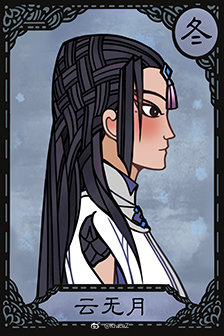
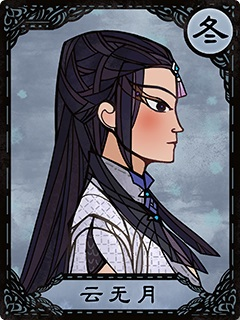
gj3 cards and combos added

diff --git a/spmanager.js b/spmanager.js
@@ -1,7 +1,7 @@
 SPECIAL_CHAR_LIST = [
   ["blts1b", "fqx1a", "hy1a", "ly1a", "oysg1a", "qy1a","xl1a", "yqs1a", "fls1a", "xf1a", "blts1a", "fqx1b", "fls1b", "xl1b", "hy1b", "yqs1b"],
   ["hy2a", "qhzr2a", "sx2a", "sy2a", "wry2b", "xy2a", "xyz2a", "xyz2b", "ywy2a", "ywy2b", "yq2a", "wry2a", "ar2b", "ar2a"],
-  []
+  ["bl3a", "bl3b","ywy3a", "ywy3b", "cy3a", "cy3b", "jxy3b", "jxy3a", "jy3a", "wz3a", "sw3a", "xgns3a", "lz3a", "lx3a"]
 ];
 
 
@@ -21,6 +21,92 @@ class SPManager{
   createSpecial(id) {
     var char, trick;
     switch (id) {
+      case "lx3a":
+          char = new SpecialCharacter("lx3a", "刘兄", "比木", 4, "春", "寒渊梦远几时真，\n但将笔砚换君钗。");
+          trick = new ComboTrick("玳之梦", 30);
+          char.addTrick(trick);
+          trick = new DealTrick("若巫之国在公共卡池中，\n则下一回合一定出现巫之国", ["巫之国"], true);
+          char.addTrick(trick);
+      break;
+      case "lz3a":
+          char = new SpecialCharacter("lz3a", "嫘祖", "梦中人", 4, "夏", "昔年共饮一枝春，\n今朝唯余梦中人。");
+          trick = new SwapTrick();
+          char.addTrick(trick);
+          char.setNoswap();
+      break;
+      case "xgns3a":
+          char = new SpecialCharacter("xgns3a", "玄戈&霓商", "流光", 4, "冬", "朔风凛凛掠尘去，\n故人凭栏晓天寒。");
+          trick = new SwapTrick();
+          char.addTrick(trick);
+          char.setNoswap();
+      break;
+      case "sw3a":
+          char = new SpecialCharacter("sw3a", "司危", "嫣然", 4, "秋", "垂髻粉腮犹带笑，\n不见城深春易老。");
+          trick = new DealTrick("下一回合一定出现一个西陵角色", ["巫炤", "司危", "嫘祖"], true);
+          char.addTrick(trick);
+          trick = new UnnamedBanTrick("《古剑奇谭三》", ["巫炤", "司危", "嫘祖", "北洛", "云无月", "岑婴", "姬轩辕", "刘兄", "玄戈&霓商"]);
+          char.addTrick(trick);
+      break;
+      case "wz3a":
+          char = new SpecialCharacter("wz3a", "巫炤", "吞恨", 4, "冬", "寒灯一芯尽，\n角楼囚霜星，\n独站群崖底，\n风物皆无情。");
+          trick = new ComboTrick("西陵曲", 30);
+          char.addTrick(trick);
+          trick = new UnnamedBanTrick();
+          char.addTrick(trick);
+      break;
+      case "jy3a":
+          char = new SpecialCharacter("jy3a", "缙云", "卸甲", 4, "秋", "玄甲浸苍烟，\n皓首远人间，\n十载常独坐，\n半身是离绝。");
+          trick = new ComboTrick("以玉为戈", 30);
+          char.addTrick(trick);
+          trick = new RevealTrick(1);
+          char.addTrick(trick);
+      break;
+      case "jxy3a":
+          char = new SpecialCharacter("jxy3a", "姬轩辕", "绣春", 4, "春", "乾坤承转昔年事，\n余音茫茫赠熏风。");
+          trick = new CopyTrick();
+          char.addTrick(trick);
+      break;
+      case "jxy3b":
+          char = new SpecialCharacter("jxy3b", "姬轩辕", "玄鹿", 6, "春", "天意多无据，\n人间寄多情，\n华岁逢故交，\n崆峒惜旦暮。");
+          trick = new DealTrick("下一回合一定出现一个《古剑奇谭三》的主要角色", ["北洛", "云无月", "岑婴", "姬轩辕"], true);
+          char.addTrick(trick);
+          trick = new ComboTrick("眠霜卧雪", 30);
+          char.addTrick(trick);
+      break;
+      case "cy3b":
+          char = new SpecialCharacter("cy3b", "岑缨", "菡萏", 6, "夏", "彤霞染层静，\n云渊展鸿图，\n少年相谈笑，\n辩发垂肩行。");
+          trick = new DealTrick("下一回合一定出现一个《古剑奇谭三》的主要角色", ["北洛", "云无月", "岑婴", "姬轩辕"], true);
+          char.addTrick(trick);
+          trick = new RevealTrick(2);
+          char.addTrick(trick);
+      break;
+      case "cy3a":
+          char = new SpecialCharacter("cy3a", "岑缨", "劲装", 4, "夏", "江天绘幅远无垠，\n一页春秋一叶舟。");
+          trick = new ComboTrick("一见喜", 30);
+          char.addTrick(trick);
+      break;
+      case "ywy3b":
+          char = new SpecialCharacter("ywy3b", "云无月", "魇魅", 6, "冬", "华翎一展云蔽月，\n敢以长歌魇鬼神。");
+          trick = new UnnamedBanTrick();
+          char.addTrick(trick);
+          trick = new CharTrick("北洛", 30);
+          char.addTrick(trick);
+      break;
+      case "ywy3a":
+          char = new SpecialCharacter("ywy3a", "云无月", "华裳", 4, "冬", "清眸剪沧海，\n罗袂舞桑田，\n红尘本无意，\n重逢竟有期。");
+          trick = new RevealTrick(1);
+          char.addTrick(trick);
+      break;
+      case "bl3b":
+          char = new SpecialCharacter("bl3b", "北洛", "辟邪", 6, "秋", "微茫窥无尽，\n垂辉映中天，\n杂音没金足，\n狂啸列穹宇。");
+          trick = new ComboTrick("首山梦时书", 30);
+          char.addTrick(trick);
+      break;
+      case "bl3a":
+          char = new SpecialCharacter("bl3a", "北洛", "冕服", 4, "秋", "阵云循涌炎风震，\n清辉灼烁万物生。");
+          trick = new CharTrick("北洛", 10);
+          char.addTrick(trick);
+      break;
       case "yqs1b":
           char = new SpecialCharacter("yqs1b", "尹千觞", "大狗", 6, "秋", "久把江湖宿，\n落拓年复年，\n唤醪濯尘骨，\n钓月伴酒仙。");
           trick = new ComboTrick("醉梦江湖", 20);
@@ -42,39 +128,39 @@ class SPManager{
           trick = new DealTrick("下一回合一定出现一个《古剑奇谭一》的主要角色", ["百里屠苏", "风晴雪", "红玉", "尹千觞", "方兰生", "襄铃"], true);
           char.addTrick(trick);
       break;
-    case "fls1b":
-        char = new SpecialCharacter("fls1b", "方兰生", "蓝鲲", 6, "春", "庭中生嘉树，\n华叶自飘摇，\n温然发秀质，\n馥兰映琼瑶。");
-        trick = new ComboTrick("永相随", 20);
-        char.addTrick(trick);
-        trick = new RevealTrick(1);
-        char.addTrick(trick);
-    break;
-    case "fqx1b":
-        char = new SpecialCharacter("fqx1b", "风晴雪", "绵羊", 6, "春", "寿无金石固，\n随时爱景光，\n与君一执手，\n衣袖十年香。");
-        trick = new DealTrick("若焦炭在公共卡池中，则下一回合一定出现焦炭则", ["焦炭"], true);
-        char.addTrick(trick);
-        trick = new ComboTrick("厨房功夫", 20);
-        char.addTrick(trick);
-    break;
-    case "blts1a":
-        char = new SpecialCharacter("blts1a", "百里屠苏", "天墉", 4, "冬", "许向长空倾碧血，\n由他业火寸心摧。");
-        trick = new CharTrick("古剑焚寂", 15);
-        char.addTrick(trick);
-        trick = new DealTrick("下一回合一定出现一个《古剑奇谭一》的主要角色", ["百里屠苏", "风晴雪", "红玉", "尹千觞", "方兰生", "襄铃"], true);
-        char.addTrick(trick);
-    break;
-    case "ar2a":
-        char = new SpecialCharacter("ar2a", "阿阮", "神女", 4, "春", "云垂水镜参差影，\n十二峰头月欲西。");
-        trick = new ComboTrick("露草流萤", 15);
-        char.addTrick(trick);
-    break;
-    case "ar2b":
-        char = new SpecialCharacter("ar2b", "阿阮", "山鬼", 6, "春", "崔嵬未起逐风舞，\n羲和停云坠玉露。");
-        trick = new DealTrick("若夏夷则在公共卡池中，则下一回合一定出现夏夷则", ["夏夷则"], true);
-        char.addTrick(trick);
-        trick = new RevealTrick(1);
-        char.addTrick(trick);
-    break;
+      case "fls1b":
+          char = new SpecialCharacter("fls1b", "方兰生", "蓝鲲", 6, "春", "庭中生嘉树，\n华叶自飘摇，\n温然发秀质，\n馥兰映琼瑶。");
+          trick = new ComboTrick("永相随", 20);
+          char.addTrick(trick);
+          trick = new RevealTrick(1);
+          char.addTrick(trick);
+      break;
+      case "fqx1b":
+          char = new SpecialCharacter("fqx1b", "风晴雪", "绵羊", 6, "春", "寿无金石固，\n随时爱景光，\n与君一执手，\n衣袖十年香。");
+          trick = new DealTrick("若焦炭在公共卡池中，则下一回合一定出现焦炭", ["焦炭"], true);
+          char.addTrick(trick);
+          trick = new ComboTrick("厨房功夫", 20);
+          char.addTrick(trick);
+      break;
+      case "blts1a":
+          char = new SpecialCharacter("blts1a", "百里屠苏", "天墉", 4, "冬", "许向长空倾碧血，\n由他业火寸心摧。");
+          trick = new CharTrick("古剑焚寂", 15);
+          char.addTrick(trick);
+          trick = new DealTrick("下一回合一定出现一个《古剑奇谭一》的主要角色", ["百里屠苏", "风晴雪", "红玉", "尹千觞", "方兰生", "襄铃"], true);
+          char.addTrick(trick);
+      break;
+      case "ar2a":
+          char = new SpecialCharacter("ar2a", "阿阮", "神女", 4, "春", "云垂水镜参差影，\n十二峰头月欲西。");
+          trick = new ComboTrick("露草流萤", 15);
+          char.addTrick(trick);
+      break;
+      case "ar2b":
+          char = new SpecialCharacter("ar2b", "阿阮", "山鬼", 6, "春", "崔嵬未起逐风舞，\n羲和停云坠玉露。");
+          trick = new DealTrick("若夏夷则在公共卡池中，则下一回合一定出现夏夷则", ["夏夷则"], true);
+          char.addTrick(trick);
+          trick = new RevealTrick(1);
+          char.addTrick(trick);
+      break;
       case "wry2a":
           char = new SpecialCharacter("wry2a", "闻人羽", "闺秀", 4, "秋", "塞雪连城堕婆娑，\n云雕怒马走冰河。");
           trick = new DealTrick("增加《古剑奇谭二》主要角色出现的概率", ["闻人羽", "乐无异", "夏夷则", "阿阮"], false);

diff --git a/model.js b/model.js
@@ -36,7 +36,9 @@ COMMON_CHAR_LIST = [
     ['yd1','幽都',2,'冬','娲皇故里聚先贤，\n风雨如晦葬龙渊。'],
     ['jt1','焦炭',2,'夏','天地为炉生妙物，\n阴阳为炭造化功。'],
     ['fl1','凤来',2,'春','神识邈邈拂丝弦，\n人间离散月又圆。'],
-    ['bsd1','百胜刀',2,'冬','白刃出鞘饮煞气，\n世事斗转换乾坤。']],
+    ['bsd1','百胜刀',2,'冬','白刃出鞘饮煞气，\n世事斗转换乾坤。'],
+    ['ax1','阿翔',2,'冬','一团冰雪含奇质，\n万里云霄豁俊眸。'],
+    ['hyh1','红叶湖',2,'夏','野睛露染狐呜咿，\n红塘落叶榕嘘摇。']],
   [
     ['sy2','沈夜',2,'冬','时烬未烬陷永夜，\n归期无期月寒沉。'],
     ['sx2','沈曦',2,'春','梦呓短歌消长夜，\n吉光片羽碎琉璃。'],
@@ -63,37 +65,38 @@ COMMON_CHAR_LIST = [
     ['xy2','谢衣',2,'夏','花落庭前浮图现，\n人间尽是晚晴天。'],
     ['jsh2','静水湖',2,'春','水天一色洗尘嚣，\n帘栊垂落与神交。'],
     ['snm2','神女墓',2,'冬','神农座下披华藻，\n行云带雨香陨早。'],
-    ['hykh2','华月箜篌',2,'冬','凝音织梦倚阑珊，\n清商抚羽月沉沦。']],
+    ['hykh2','华月箜篌',2,'冬','凝音织梦倚阑珊，\n清商抚羽月沉沦。'],
+    ['jd2','捐毒',2,'夏','玉门关外祭坛成，\n浑邪葬处沙倾城。'],
+    ["cj2", "馋鸡", 2, "春", "北溟鲲游翻海震，\n袖藏禅机翥天飞。"]],
   [
-    ["sw3", "司危", 2, "春", ""],
-    ["bl3", "北洛", 2, "春", ""],
-    ["ywy3", "云无月", 2, "冬", ""],
-    ["cy3", "岑婴", 2, "夏", ""],
-    ["xg3", "玄戈", 2, "秋", ""],
-    ["ns3", "霓商", 2, "夏", ""],
-    ["jxy3", "姬轩辕", 2, "秋", ""],
-    ["jy3", "缙云", 2, "夏", ""],
-    ["bhl3", "半魂莲", 2, "秋", ""],
-    ["tl3", "天鹿", 2, "秋", ""],
-    ["wz3", "巫炤", 2, "冬", ""],
-    ["ts3", "太岁", 2, "春", ""],
-    ["sz3", "蜃珠", 2, "夏", ""],
-    ["wmzd3", "无名之地", 2, "冬", ""],
-    ["tlc3", "天鹿城", 2, "秋", ""],
-    ["wzg3", "巫之国", 2, "冬", ""],
-    ["xl3", "西陵", 2, "春", ""],
-    ["lz3", "嫘祖", 2, "夏", ""],
-    ["fls3", "风里沙", 2, "秋", ""],
-    ["lxj3", "凌星见", 2, "春", ""],
-    ["wyzl3", "乌衣长老", 2, "春", ""],
-    ["sj3", "鸤鸠", 2, "冬", ""],
-    ["yts3", "原天柿", 2, "秋", ""],
-    ["ycg3", "夜长庚", 2, "冬", ""],
-    ["gd3", "骨笛", 2, "冬", ""],
-    ["z3", "磔", 2, "夏", ""],
-    ["ys3", "玉梳", 2, "冬", ""],
-    ["mhz3", "梦魂枝", 2, "秋", ""]
-  ]
+    ["bl3", "北洛", 2, "秋", "璞玉浑金珠光淡，\n晦迹韬光识乾坤。"],
+    ["ywy3", "云无月", 2, "冬", "既出丹渊交光夜，\n凝雾点漆逸流萤。"],
+    ["cy3", "岑缨", 2, "夏", "豆火薪传笑嫣然，\n书帷漫卷睛灵秀。"],
+    ["jxy3", "姬轩辕", 2, "春", "天何所沓梦归崖，\n日月入怀星分阵。"],
+    ["jy3", "缙云", 2, "秋", "岁付征鸿辉斗柄，\n剑破寰宇卫荒服。"],
+    ["wz3", "巫炤", 2, "冬", "空阶拥璇献沉壁，\n枉消虚过碎玉衡。"],
+    ["sw3", "司危", 2, "夏", "韶颜稚尺芳菲逝，\n朱轮惘惘笑移蚀。"],
+    ["xgns3", "玄戈&霓商", 2, "冬", "惊风奔雷骋四野，\n重帘暮深落星沉。"],
+    ["lz3", "嫘祖", 2, "夏", "掷镜秉钺自光辉，\n孤城折冲定风波。"],
+    ["lx3", "刘兄", 2, "春", "青丘尘中犹独醒，\n夕寐霄兴叙多情。"],
+    ["tlc3", "天鹿城", 2, "秋", "霄虹纹彩九千仞，\n莫见阙角倚碧海。"],
+    ["xl3", "西陵", 2, "秋", "鸢飞丘墟千嶂叠，\n狼烟恒亘背花烬。"],
+    ["yl3", "鄢陵", 2, "春", "折花掷果麴盈车，\n华红叠翠醉春晖。"],
+    ["yx3", "有熊", 2, "秋", "固城筑基共拾火，\n绯云漫卷覆短墙。"],
+    ["bmz3", "白梦泽", 2, "春", "旧时泽畔刺荆心，\n云散雾始咏初年。"],
+    ["wzg3", "巫之国", 2, "冬", "寂寂无声伴永生，\n堭堭空音苍梧谣。"],
+    ["dh3", "鼎湖", 2, "冬", "神与行处凝涧壑，\n帐殿倚云破冰枝。"],
+    ["cs3", "赤水", 2, "夏", "未闻龙啸绝凌云，\n残灯耿夜拾遗珠。"],
+    ["yp3", "阳平", 2, "夏", "谷旦净扫立修竹，\n斜阳照拂连巴蜀。"],
+    ["wmzd3", "无名之地", 2, "冬", "生生死死漠无声，\n影影绰绰空载魂。"],
+    ["ts3", "太岁", 2, "冬", "照之以日月，\n经之以星辰，\n纪之以四时，\n要之以太岁。"],
+    ["yts3", "原天柿", 2, "春", "结庐莲境持家计，\n饱卧汤泉乡其音。"],
+    ["hb3", "画板", 2, "夏", "聿画三界行九州，\n千秋入墨成陈迹。"],
+    ["bhl3", "半魂莲", 2, "夏", "浮生聚散梦连陇，\n天星摇落尽成空。"],
+    ["ys3", "玉梳", 2, "春", "旧梦如昨梳叠云，\n故国凋零意难平。"],
+    ["qqczj3", "青丘尘中记", 2, "春", "闲情偶寄旦付梓，\n一语成谶结狐缘。"],
+    ["mhz3", "梦魂枝", 2, "秋", "切切以旧梦为恨，\n点点以残魂为引。"],
+    ["tl3", "天鹿", 2, "秋", "籍籍征战遏群魔，\n迢迢高城远人间。"]]
 ];
 COMBO_LIST  = [
   //[char name list], comboname, score, comboid, audio duration(ms)
@@ -171,8 +174,59 @@ COMBO_LIST  = [
   [['风晴雪','尹千觞'],'陌相逢',4,'mxf',2011.429],
   [['风晴雪','幽都'],'幽都灵女',4,'ydln',2142.0409999999997],
   [['风晴雪','尹千觞','幽都'],'幽夜苍茫',10,'yycm',2899.592],
-  [['风晴雪','方兰生','百里屠苏','红玉','尹千觞','襄铃'],'黑衣少侠传',60,'hysxz',1750.2040000000002]
-  /*
+  [['风晴雪','方兰生','百里屠苏','红玉','尹千觞','襄铃'],'黑衣少侠传',60,'hysxz',1750.2040000000002],
+  [['风晴雪','天鹿城'],'荒魂述',4,'combo',1000],
+  [['襄铃','青丘尘中记'],'青丘有狐',4,'combo',1000],
+  [['襄铃','红叶湖'],'清馨戏蝶',4,'combo',1000],
+  [['馋鸡','乐无异'],'沧海飞尘',4,'combo',1000],
+  [['悭臾','赤水'],'空徊',4,'combo',1000],
+  [['欧阳少恭','梦魂枝'],'烂柯',4,'combo',1000],
+  [['阿翔','百里屠苏'],'飞羽凌杀',4,'combo',1000],
+  [['北洛','云无月'],'静水流深',4,'combo',1000],
+  [['缙云','北洛'],'昨日影',4,'combo',1000],
+  [['玄戈&霓商','北洛'],'参商交辉',4,'combo',1000],
+  [['天鹿城','北洛'],'来日可期',4,'combo',1000],
+  [['太岁','北洛'],'杀伐之剑',4,'combo',1000],
+  [['北洛','原天柿'],'得力帮手',4,'combo',1000],
+  [['云无月','白梦泽'],'独歌',4,'combo',1000],
+  [['云无月','梦魂枝'],'无梦之魇',4,'combo',1000],
+  [['鄢陵','岑缨'],'鸿雁于飞',4,'combo',1000],
+  [['原天柿','岑缨'],'一见喜',4,'combo',1000],
+  [['画板','岑缨'],'澄心若璃',4,'combo',1000],
+  [['姬轩辕','岑缨'],'吾道不孤',4,'combo',1000],
+  [['姬轩辕','嫘祖'],'昔年之乐',4,'combo',1000],
+  [['姬轩辕','有熊'],'轩辕氏',4,'combo',1000],
+  [['姬轩辕','鼎湖'],'龙去鼎湖',4,'combo',1000],
+  [['缙云','云无月'],'云本无心',4,'combo',1000],
+  [['太岁','缙云'],'千峰辟易',4,'combo',1000],
+  [['巫炤','司危'],'邃古遗幽',4,'combo',1000],
+  [['半魂莲','巫炤'],'恨生天地',4,'combo',1000],
+  [['天鹿城','玄戈&霓商'],'星坠',4,'combo',1000],
+  [['天鹿','玄戈&霓商'],'镇厄',4,'combo',1000],
+  [['西陵','嫘祖'],'烽烟锁城',4,'combo',1000],
+  [['刘兄','阳平'],'妙笔退魔',4,'combo',1000],
+  [['刘兄','青丘尘中记'],'神游狐乡',4,'combo',1000],
+  [['天鹿','天鹿城'],'却邪',4,'combo',1000],
+  [['西陵','有熊'],'人世星火',4,'combo',1000],
+  [['半魂莲','巫之国'],'天星尽摇',4,'combo',1000],
+  [['半魂莲','阳平'],'黑莲厄',4,'combo',1000],
+  [['半魂莲','无名之地'],'苏生之罪',4,'combo',1000],
+  [['玉梳','司危'],'负青丝',5,'combo',1000],
+  [['百里屠苏','红叶湖','襄铃'],'尾巴尖儿',10,'combo',1000],
+  [['白梦泽','北洛','云无月'],'宿世秋',10,'combo',1000],
+  [['刘兄','巫之国','北洛'],'玳之梦',10,'combo',1000],
+  [['姬轩辕','缙云','有熊'],'以玉为戈',10,'combo',1000],
+  [['姬轩辕','赤水','嫘祖'],'赤水遗珠',10,'combo',1000],
+  [['缙云','白梦泽','云无月'],'刺荆心',10,'combo',1000],
+  [['司危','玉梳','嫘祖'],'生辰礼',10,'combo',1000],
+  [['无名之地','西陵','巫之国'],'巫之血',10,'combo',1000],
+  [['谢衣','沉夜','捐毒','乐无异'],'往事浮沙',20,'combo',1000],
+  [['姬轩辕','北洛','云无月','岑缨'],'首山梦时书',20,'combo',1000],
+  [['姬轩辕','缙云','嫘祖','鼎湖'],'眠霜卧雪',20,'combo',1000],
+  [['姬轩辕','缙云','巫炤','嫘祖'],'故梦',20,'combo',1000],
+  [['西陵','巫炤','司危','嫘祖'],'西陵曲',20,'combo',1000],/*
+  [['百里屠苏','原天柿','馋鸡','阿翔','北洛','乐无异'],'携宠同行',60,'combo',1000],
+  [['天鹿','昭明','古剑焚寂','古剑红玉','太岁','无名之剑'],'古剑奇谭',80,'combo',1000],
   [ ["巫炤", "司危"], "西陵毒唯", 4],
   [ ["巫炤", "西陵"], "炤不保西", 3],
   [ ["巫炤", "无名之地"], "千年老尸", 3],

diff --git a/index.html b/index.html
@@ -20,8 +20,8 @@
 	<div id="configurator" class="flexbox transitopacity">
 		<div id="packinput" class="segmented-control" style="width: 100%; color: #281B11">
 			<input type="radio" name="version" id="p12">
-			<input type="radio" name="version" id="p13" disabled="true">
-			<input type="radio" name="version" id="p23" disabled="true">
+			<input type="radio" name="version" id="p13">
+			<input type="radio" name="version" id="p23">
 			<label for="p12" data-value="1+2 代人物">1+2</label>
 			<label for="p13" data-value="1+3 代人物">1+3</label>
 			<label for="p23" data-value="2+3 代人物">2+3</label>
